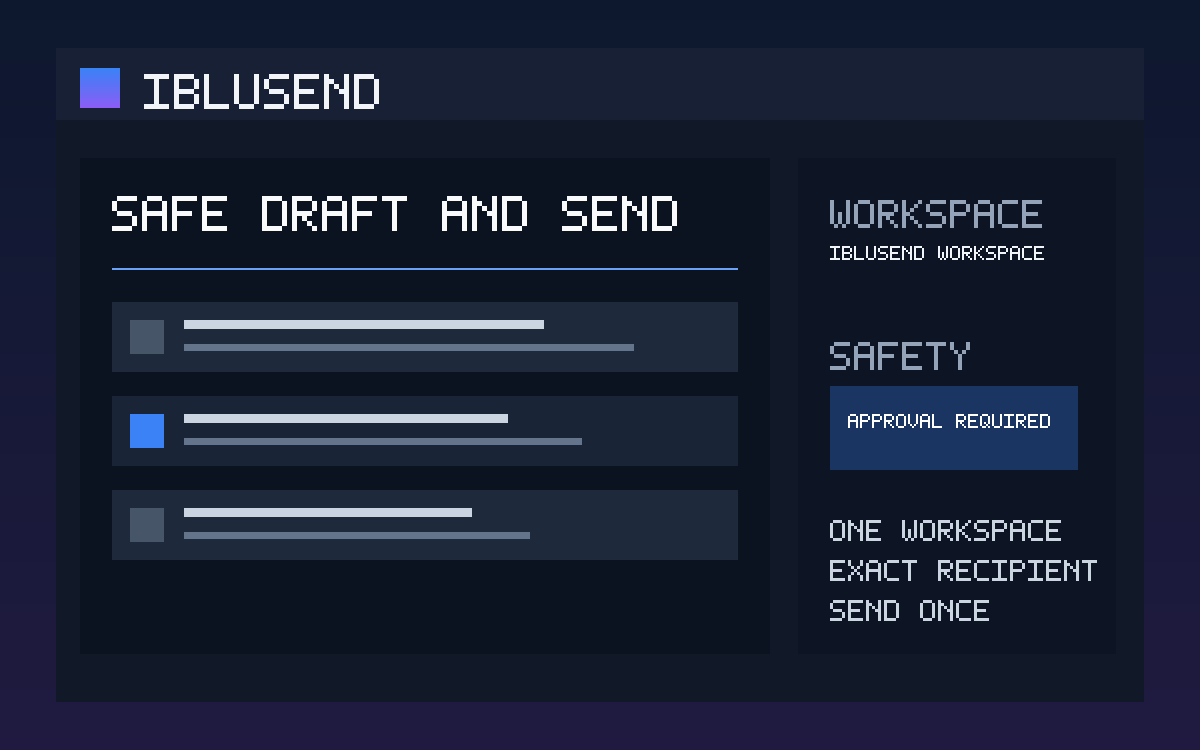
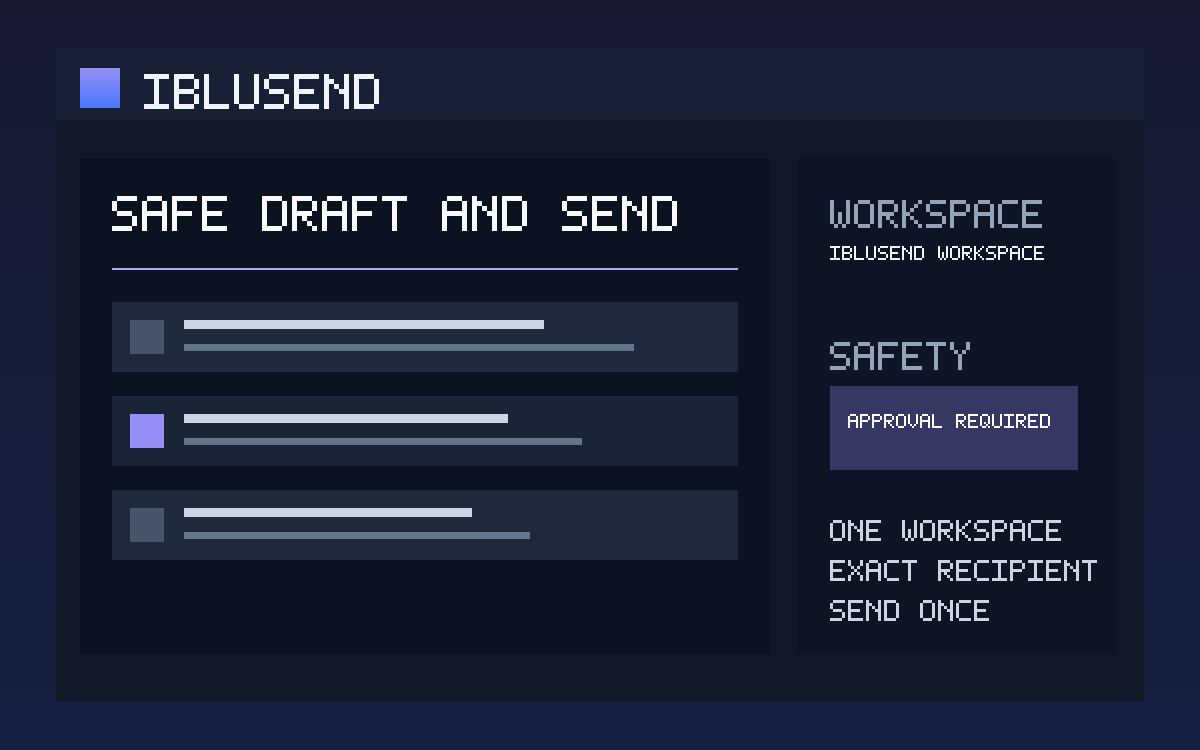
feat(plugin): ship canonical iBluSend brand assets (#7)
Replace generated placeholder artwork with the approved, hash-pinned iBluSend icon and light/dark lockups. Preserve deterministic generated assets for white-label packages and pin the Claude connector submission artwork.

Changed region(s): [[0.6783, 0.4907, 0.925, 0.644], [0.0925, 0.552, 0.1542, 0.6133], [0.0617, 0.092, 0.1233, 0.1533]]

diff --git a/docs/white-label.md b/docs/white-label.md
@@ -13,7 +13,7 @@ Start from `brands/imessage-sender.example.json` and validate fields against
 - publisher name, email, website, and repository;
 - support, privacy, terms, and homepage URLs;
 - remote MCP server name and exact HTTPS resource;
-- brand colors, monogram, generated light/dark logos, composer icon, and three screenshots;
+- brand colors, monogram, light/dark logos, composer icon, and three screenshots;
 - starter prompts and workspace/channel wording; and
 - both marketplace identities and install policy.
 
@@ -23,6 +23,13 @@ developer-mode registration. Store the canonical `asdk_app_...` runtime identifi
 
 All values must be final and authorized. Do not put a customer name, private repository URL,
 credential, tenant identifier, phone number, or private legal document into the public repository.
+
+Each visual asset may use `kind: "generated"`, which produces the deterministic monogram artwork,
+or `kind: "source"`, which copies an authorized PNG byte for byte. Source paths must begin with
+`./`, stay inside the brand document's directory, and name a regular PNG file rather than a
+symlink. Keep each source file at or below 10 MiB and pin it with its lowercase SHA-256 digest.
+Generation stops if the file is missing, escapes the brand directory, or no longer matches that
+digest.
 
 ## Generate and validate
 
@@ -36,8 +43,9 @@ node scripts/validate-packages.mjs --root dist/imessage-sender
 ```
 
 The output includes both marketplace catalogs, both provider manifests, one `.mcp.json`, all three
-skills, six PNG assets, a submission checklist, and SHA-256 checksums. Generation has no timestamp
-and is deterministic for the same source document and generator version.
+skills, six PNG assets, a submission checklist, and SHA-256 checksums. Source artwork is copied
+without resizing or recompression. Generation has no timestamp and is deterministic for the same
+brand document, source bytes, and generator version.
 
 Run the same command twice to separate clean directories and compare their trees before releasing
 a generator change. The automated generator test performs this check for the two reference brands.

diff --git a/docs/submission/claude-connector.md b/docs/submission/claude-connector.md
@@ -28,6 +28,14 @@ Prepare the server name, resource URL, tagline, descriptions, use cases, transpo
 read/write summary, category, tool list, annotations, documentation, support, privacy policy, test
 account instructions, tested Claude surfaces, and final logo.
 
+Use the canonical app icon for Anthropic's server-logo field because the connector card prints the
+`iBluSend` name beside it. Prefer the public SVG at
+`https://iblusend.com/brand/iblusend-brand-kit/app-icons/iblusend-app.svg`; if the form requires a
+PNG upload, use `brands/assets/iblusend/composer-icon.png` from this repository. Its expected
[1 lines of base64/hex data omitted]
+Verify the actual directory card on both light and dark Claude surfaces before approving Gate C,
+and confirm that Anthropic's favicon check resolves the branded iBluSend site icon.
+
 This v1 does not use MCP Apps or `ui/open-link`, so it should not claim interactive UI or request
 an allowed-link list. If either capability is added later, reassess screenshots and URI ownership
 before updating the submission.

diff --git a/docs/submission/claude-plugin.md b/docs/submission/claude-plugin.md
@@ -36,6 +36,14 @@ point at the same URL.
   Directory.
 - A clean-machine install from the public repository succeeds in Claude Code and Cowork.
 
+## Brand assets
+
+The shared package carries the same hash-pinned iBluSend app icon and light/dark lockups used by
+the Codex package. Claude Code's current plugin and marketplace manifest schemas do not define an
+icon or logo property, so do not add an unsupported field to make a local card appear branded.
+Use the Claude submission surface for listing artwork when it offers that control, and keep the
+bundled assets ready for hosts that support them.
+
 ## Submit
 
 Use Anthropic's in-app plugin submission form with the public GitHub repository or a complete zip

diff --git a/plugins/iblusend/SUBMISSION_CHECKLIST.md b/plugins/iblusend/SUBMISSION_CHECKLIST.md
@@ -1,7 +1,7 @@
 <!-- Generated by scripts/generate-brand-package.mjs. -->
 # iBluSend submission checklist
 
-- [ ] Package version is `0.1.3` everywhere.
+- [ ] Package version is `0.1.4` everywhere.
 - [ ] MCP resource is exactly `https://api.iblusend.com/functions/v1/agent-api/v1/mcp/public`.
 - [ ] OAuth discovery, PKCE, workspace consent, scopes, refresh, and revocation pass served tests.
 - [ ] Read-only access discovers eight tools; Read and act discovers eleven.
